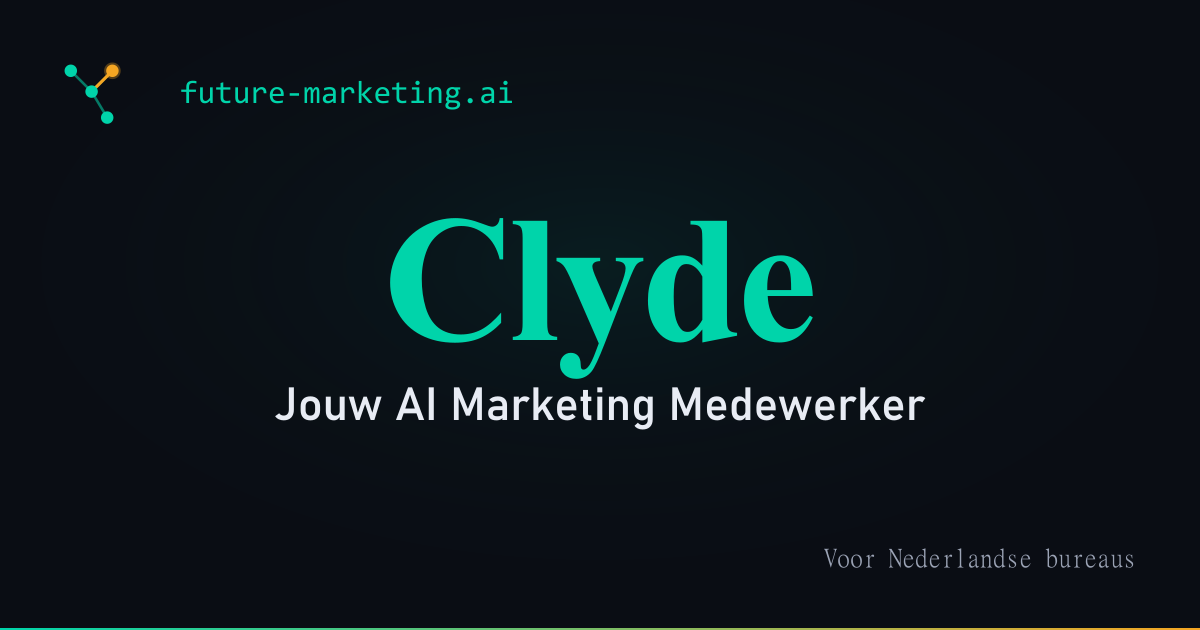
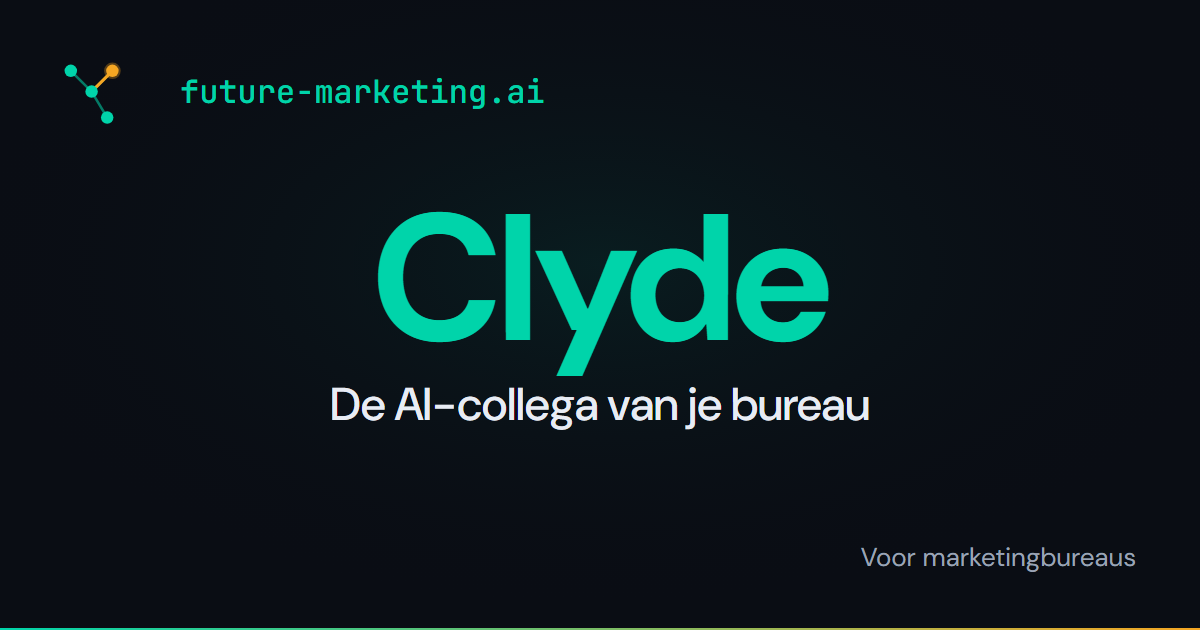
fix(og): share card per locale without "Medewerker", because every campaign post shows it
Every page shared "Clyde / Jouw AI Marketing Medewerker / Voor Nederlandse bureaus",
also on /en (site audit critic gap 1). The generator now renders one card per
locale (nl, en, es) with the positioning the site uses, in Chromium with the
site fonts, and metadata plus opengraph-image pick the card for the locale.

diff --git a/fmai-nextjs/src/app/[locale]/opengraph-image.tsx b/fmai-nextjs/src/app/[locale]/opengraph-image.tsx
@@ -1,7 +1,7 @@
 import { readFile } from 'node:fs/promises'
 import { join } from 'node:path'
 
-export const alt = 'Future Marketing AI: AI-Powered Marketing Automation'
+export const alt = 'FutureMarketingAI: Clyde, de AI-collega van je bureau'
 export const size = { width: 1200, height: 630 }
 export const contentType = 'image/png'
 
@@ -20,8 +20,10 @@ export const contentType = 'image/png'
  * The static og-image.png is brand-correct (Synapse mark, Clyde headline,
  * Dutch agency tagline) and regenerable via the brand-assets script.
  */
-export default async function Image() {
-  const png = await readFile(join(process.cwd(), 'public/og-image.png'))
+export default async function Image({ params }: { params: Promise<{ locale: string }> }) {
+  const { locale } = await params
+  const file = locale === 'en' || locale === 'es' ? `og-image-${locale}.png` : 'og-image.png'
+  const png = await readFile(join(process.cwd(), 'public', file))
   return new Response(new Uint8Array(png), {
     headers: {
       'Content-Type': 'image/png',

diff --git a/fmai-nextjs/src/lib/metadata.ts b/fmai-nextjs/src/lib/metadata.ts
@@ -17,7 +17,10 @@ export const OG_LOCALE_MAP: Record<string, string> = {
   es: 'es_ES',
 }
 
-const DEFAULT_OG_IMAGE = `${SITE_URL}/og-image.png`
+// One share card per locale (scripts/generate-brand-assets.mjs); nl keeps the
+// original file name because ArticleJsonLd and old shares point at it.
+const defaultOgImage = (locale: string) =>
+  `${SITE_URL}/${locale === 'en' || locale === 'es' ? `og-image-${locale}.png` : 'og-image.png'}`
 
 export async function generatePageMetadata({
   locale,
@@ -61,7 +64,7 @@ export async function generatePageMetadata({
       siteName: SITE_NAME,
       locale: ogLocale,
       type: 'website',
-      images: [{ url: ogImage ?? DEFAULT_OG_IMAGE }],
+      images: [{ url: ogImage ?? defaultOgImage(locale) }],
     },
     twitter: {
       card: 'summary_large_image',
